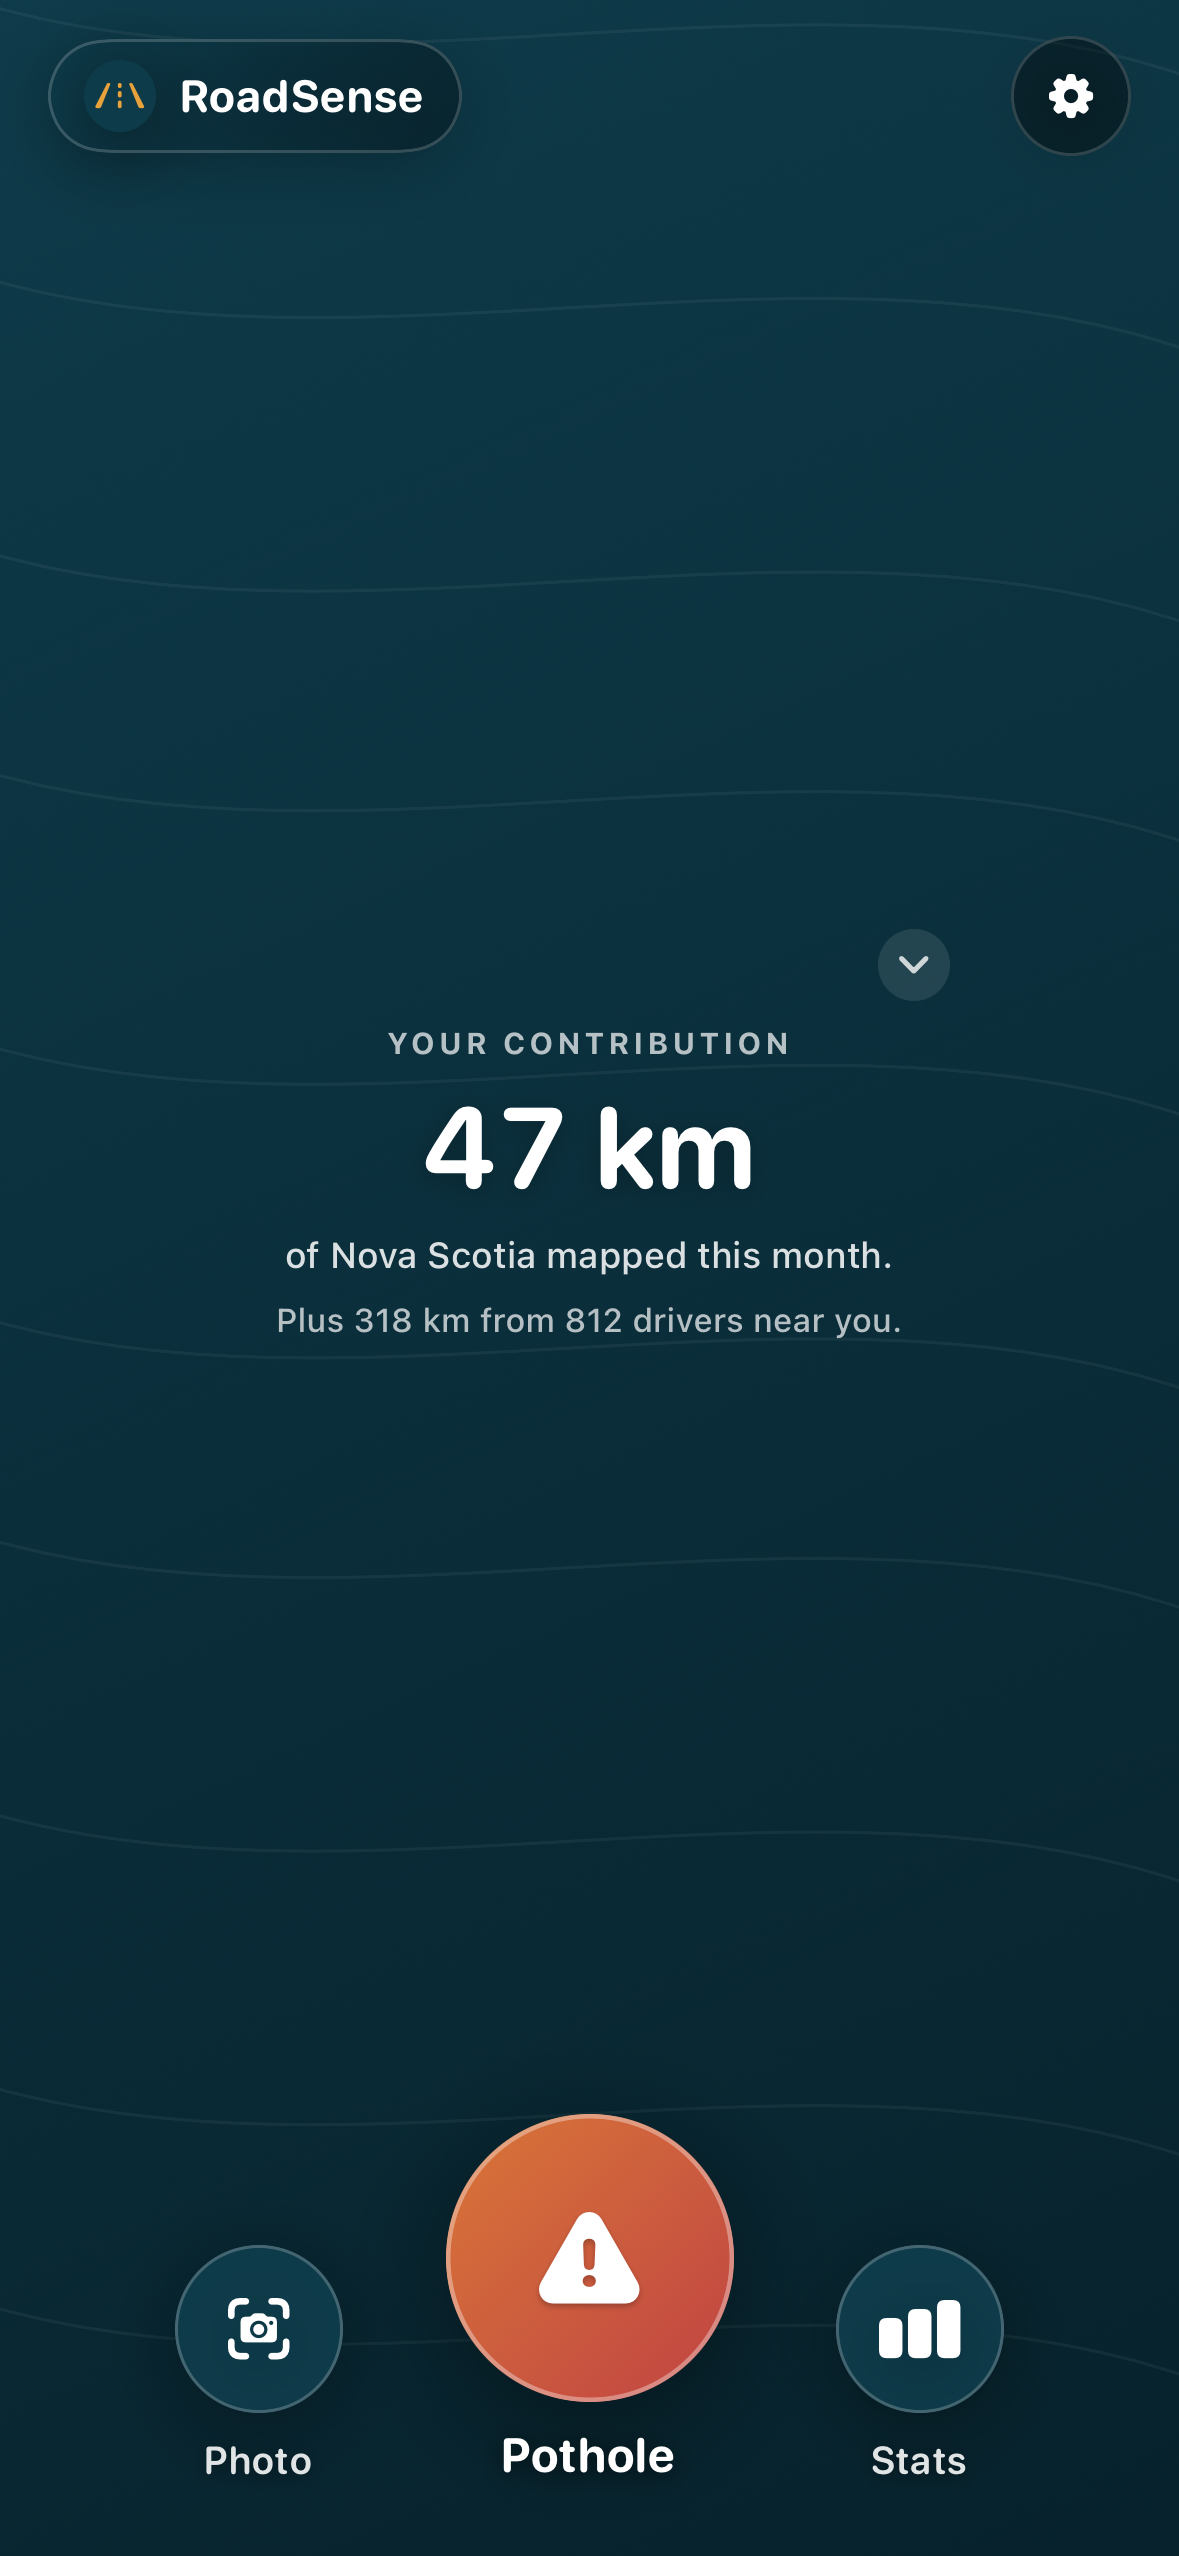
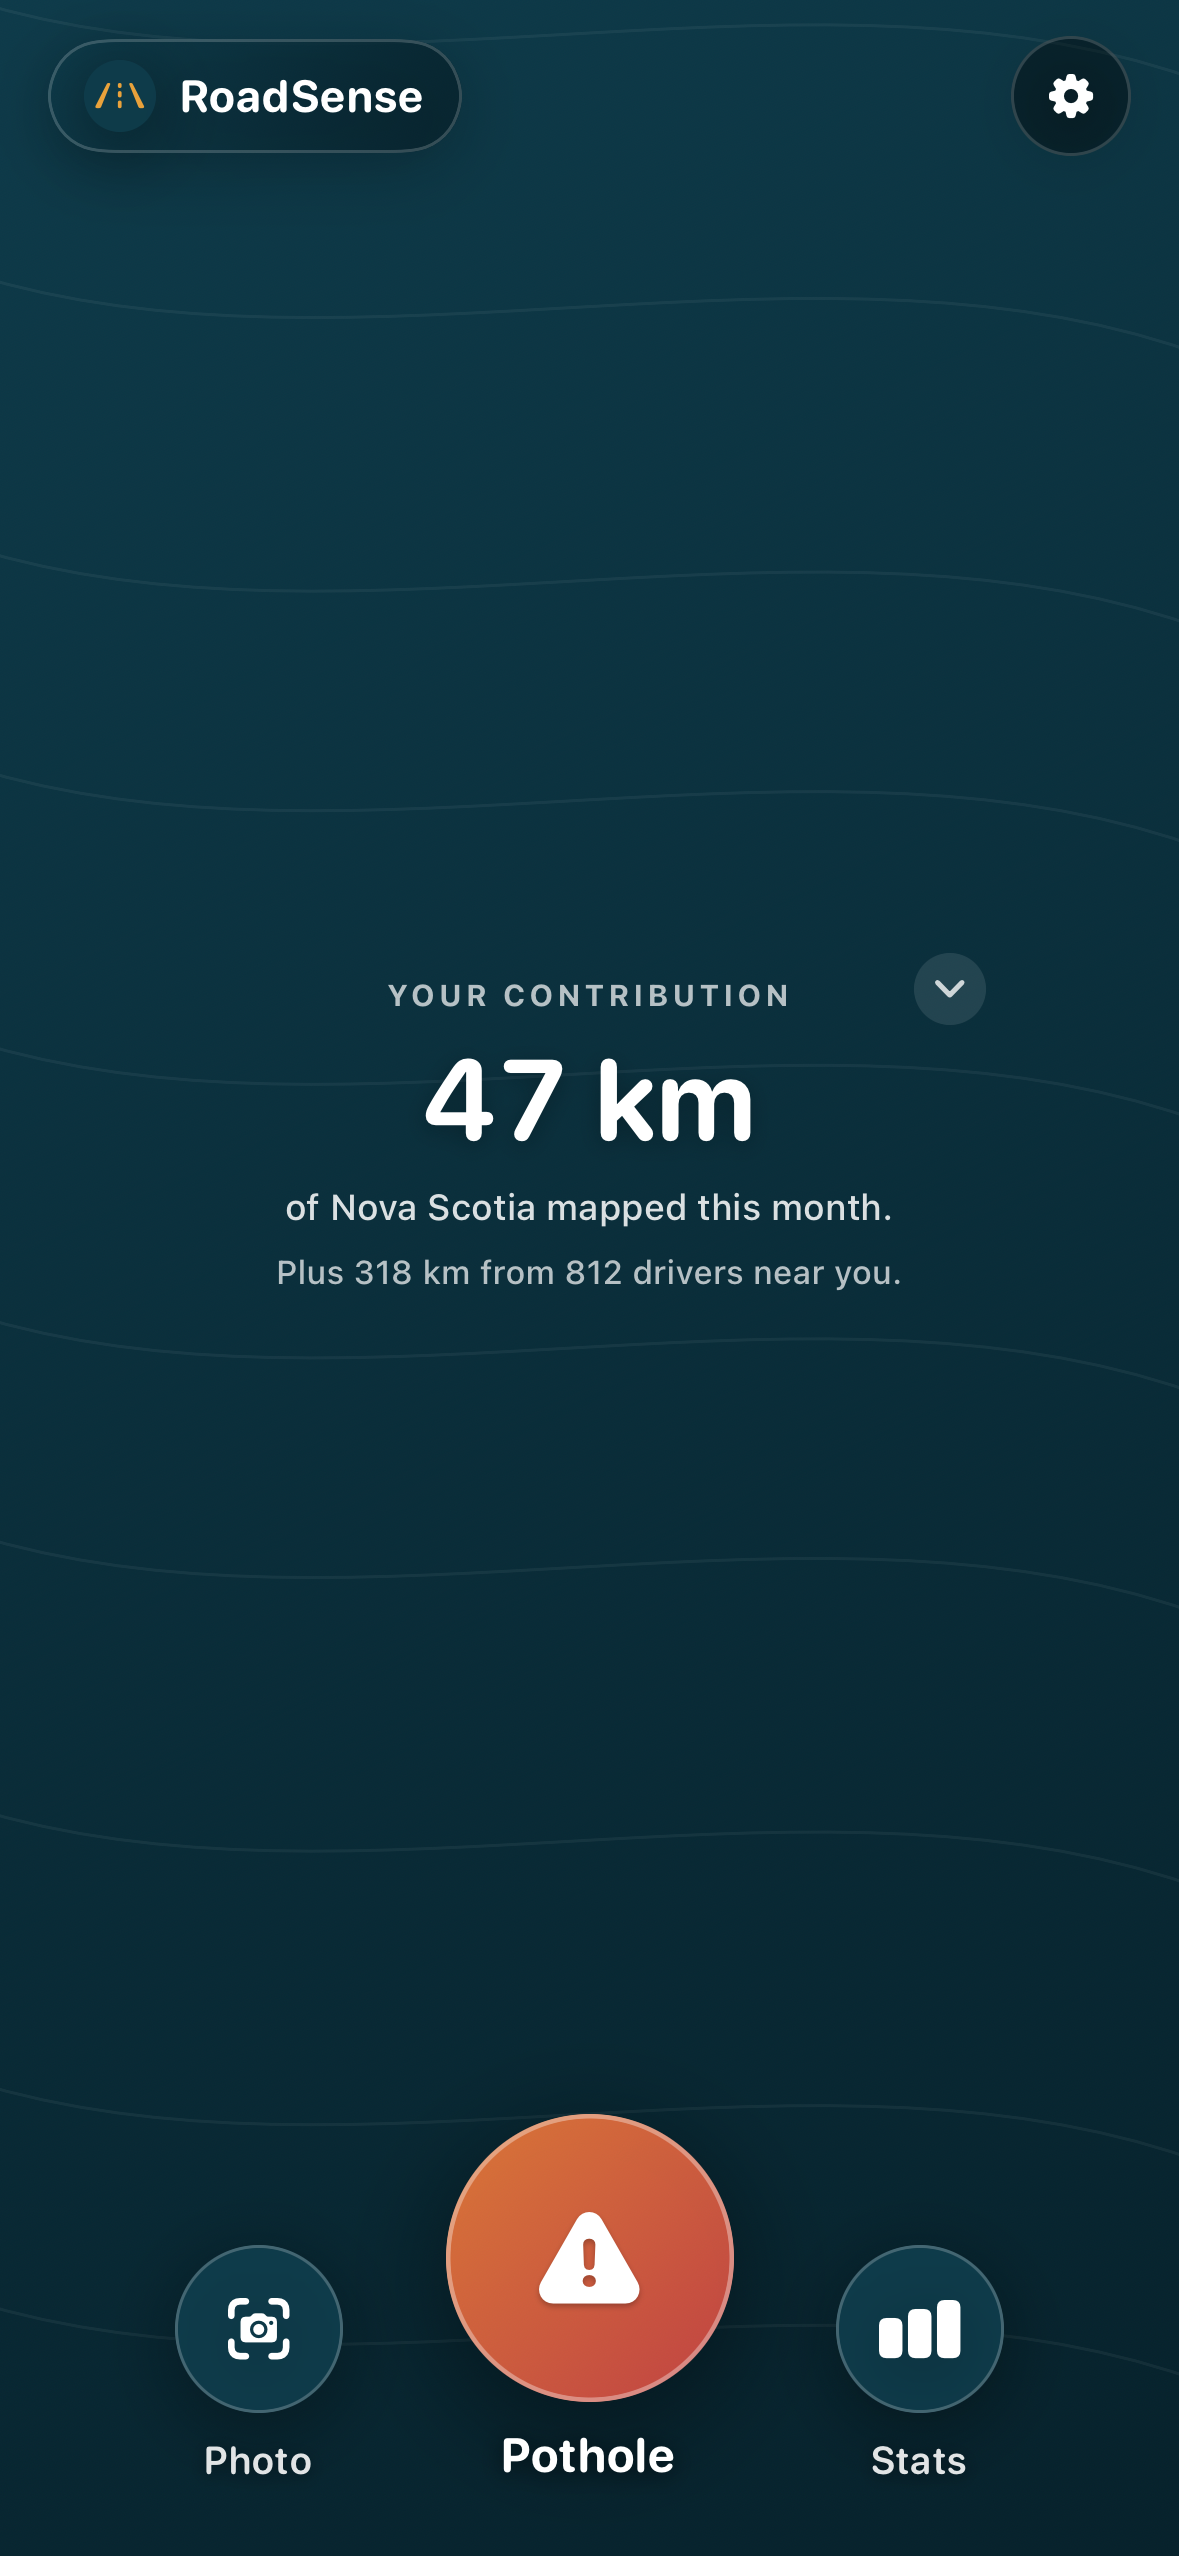
fix(driving): float IdleStatWell dismiss handle so content stays centred
The chevron was rendered as the first row of the well's VStack, which
shoved the eyebrow / km / subtitle down and broke vertical centering —
the well looked lopsided.

Move the chevron to a top-trailing overlay so it floats over the well's
corner without consuming layout space. Eyebrow, km readout, and
subtitle now centre cleanly. Tap target unchanged (24pt visible, inset
content shape for forgiveness). Padding (8pt top, 8pt trailing) tucks
it inside the scrim's rounded corner.

Changed region(s): [[0.2443, 0.3709, 0.7634, 0.5254]]

diff --git a/ios/RoadSenseNS/Features/Map/DrivingScreenComponents.swift b/ios/RoadSenseNS/Features/Map/DrivingScreenComponents.swift
@@ -342,27 +342,6 @@ struct IdleStatWell: View {
 
     var body: some View {
         VStack(alignment: .center, spacing: 6) {
-            if onDismiss != nil {
-                HStack {
-                    Spacer(minLength: 0)
-                    Button(action: { onDismiss?() }) {
-                        Image(systemName: "chevron.down")
-                            .font(.system(size: 11, weight: .bold))
-                            .foregroundStyle(.white.opacity(0.78))
-                            .frame(width: 24, height: 24)
-                            .background(
-                                Circle().fill(.white.opacity(0.10))
-                            )
-                            .contentShape(Circle().inset(by: -8))
-                    }
-                    .buttonStyle(.plain)
-                    .accessibilityLabel("Hide contribution")
-                    .accessibilityHint("Hides the contribution headline so you can explore the map. Tap the chip to bring it back.")
-                    .accessibilityIdentifier("driving.idle-well.dismiss")
-                }
-                .padding(.bottom, 2)
-            }
-
             Text(BrandVoice.Stats.yourContributionEyebrow)
                 .font(.system(size: 10, weight: .bold))
                 .tracking(1.3)
@@ -393,6 +372,27 @@ struct IdleStatWell: View {
         .frame(maxWidth: 240)
         .padding(.horizontal, DesignTokens.Space.lg)
         .padding(.vertical, DesignTokens.Space.md)
+        // Dismiss handle floats in the top-trailing corner so the headline
+        // copy stays visually centred. The button uses an inset content shape
+        // for tap-forgiveness and only renders when a dismiss callback is wired.
+        .overlay(alignment: .topTrailing) {
+            if let onDismiss {
+                Button(action: onDismiss) {
+                    Image(systemName: "chevron.down")
+                        .font(.system(size: 11, weight: .bold))
+                        .foregroundStyle(.white.opacity(0.78))
+                        .frame(width: 24, height: 24)
+                        .background(Circle().fill(.white.opacity(0.10)))
+                        .contentShape(Circle().inset(by: -8))
+                }
+                .buttonStyle(.plain)
+                .padding(.top, 8)
+                .padding(.trailing, 8)
+                .accessibilityLabel("Hide contribution")
+                .accessibilityHint("Hides the contribution headline so you can explore the map. Tap the chip to bring it back.")
+                .accessibilityIdentifier("driving.idle-well.dismiss")
+            }
+        }
         .accessibilityElement(children: .contain)
     }
 
